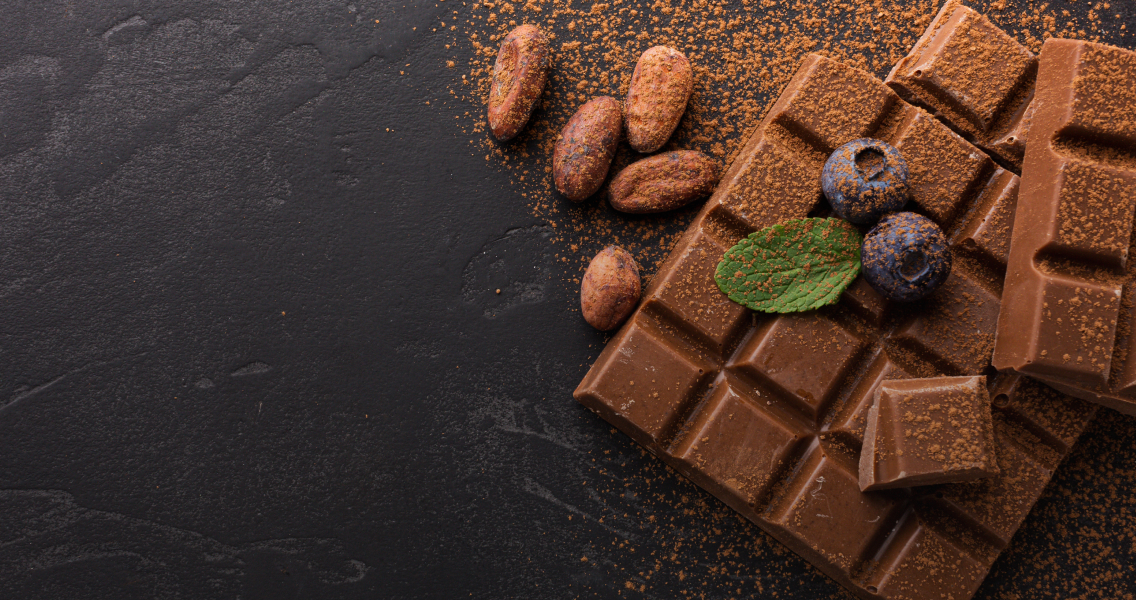
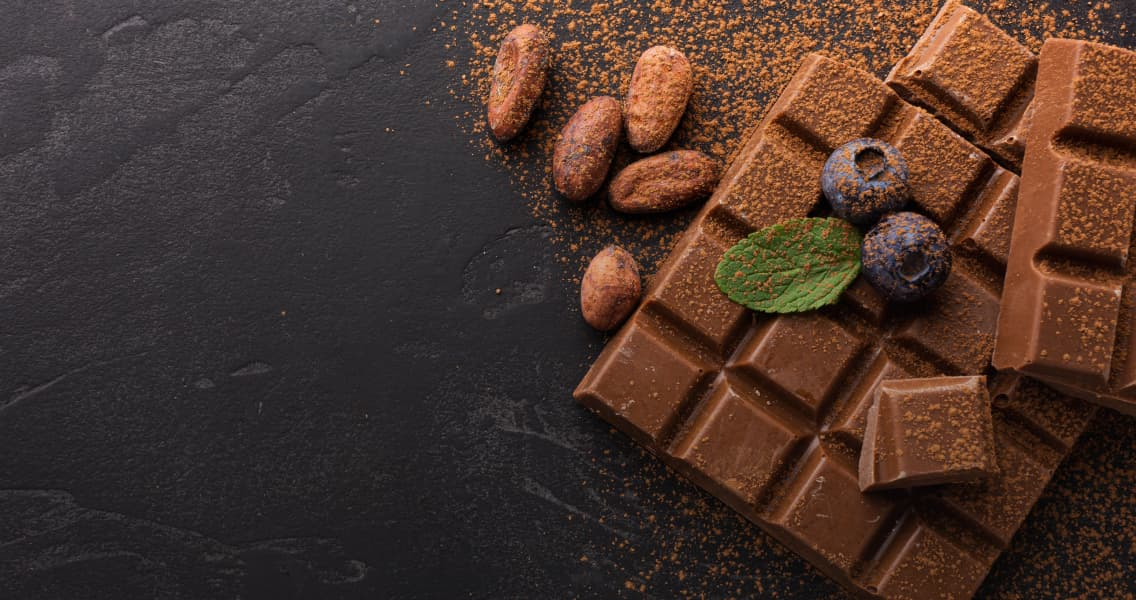
optimized bg img, reduced button padding

diff --git a/src/css/hero.css b/src/css/hero.css
@@ -1,6 +1,12 @@
-
 .hero {
-    background-image: linear-gradient(180deg, rgba(17, 17, 17, 0) 0%, rgba(17, 17, 17, 0.4) 100%), url(/img/hero/hero-bg-chocolate-mobile@1x.jpg);
+    padding-bottom: 71px;
+}
+
+.hero-content {
+    background-image: linear-gradient(180deg,
+            rgba(17, 17, 17, 0) 0%,
+            rgba(17, 17, 17, 0.4) 100%),
+        url(/img/hero/hero-bg-chocolate-mobile@1x.jpg);
     background-size: auto;
     height: 620px;
     background-repeat: no-repeat;
@@ -8,63 +14,50 @@
     background-size: cover;
     border: 0px solid #000000;
     border-radius: 30px;
-    /*margin: 14px 0 72px 0;*/
-    margin-bottom: 71px;
-    padding-top: 350px;
-    padding-left: 15px;
+    padding: 395px 0 21px 20px;
 }
 
 @media (min-device-pixel-ratio: 2),
 (min-resolution: 192dpi),
 (min-resolution: 2dppx) {
-    .hero {
-        background-image: linear-gradient(180deg, rgba(17, 17, 17, 0) 0%, rgba(17, 17, 17, 0.4) 100%), url(./img/hero/hero-bg-chocolate-mobile@2x.jpg);
+    .hero-content {
+        background-image: linear-gradient(180deg,
+                rgba(17, 17, 17, 0) 0%,
+                rgba(17, 17, 17, 0.4) 100%),
+            url(./img/hero/hero-bg-chocolate-mobile@2x.jpg);
     }
 }
 
 .hero-text {
-    font-family: 'Montserrat';
-    font-style: normal;
     font-weight: 500;
     font-size: 20px;
     line-height: 1.2;
     letter-spacing: -0.03em;
-    /*color: #ffffff;*/
     color: var(--white-text);
-    padding-bottom: 32px;
-    padding-left: 0;
-    width: 299px;
-    margin: 0;
-}
-
-.hero-btn-box {
-    padding-left: 0;
+    width: 290px;
+    margin-bottom: 32px;
 }
 
 .hero-btn {
     display: flex;
+    align-items: center;
     gap: 14px;
+    margin-bottom: 32px;
 }
 
 .btn-hero {
-    display: flex;
     font-weight: 600;
     font-size: 14px;
     line-height: 17px;
-    /*color: #FFFFFF;*/
     color: var(--white-text);
-    justify-content: center;
-    align-items: center;
-    height: 41px;
+    padding: 12px 28px;
     border-radius: 100px;
+    cursor: pointer;
 }
 
 .btn-bn-hero {
-    /*background: #FD9222;*/
     background: var(--accent-color);
     border: none;
-    width: 100px;
-    /*transition-property: background;*/
     transition-duration: 250ms;
     transition-timing-function: cubic-bezier(0.4, 0, 0.2, 1);
     cursor: pointer;
@@ -77,16 +70,12 @@
 
 .btn-hm-hero {
     background-color: transparent;
-    /*border: 1px solid #FFFFFF;*/
     border: 1px solid var(--white-text);
-    width: 135px;
     transition-duration: 250ms;
     transition-timing-function: cubic-bezier(0.4, 0, 0.2, 1);
 }
 
 .btn-hm-hero:is(:hover, :focus) {
-    /*border: 1px solid #FD9222;*/
-    /*color: #FD9222;*/
     border: 1px solid var(--accent-color);
     color: var(--accent-color);
 }
@@ -94,23 +83,17 @@
 .hero-scroll {
     display: flex;
     gap: 12px;
-    padding-left: 0px;
-    padding-top: 32px;
     align-items: center;
-    /*fill: #FD9222;*/
     fill: var(--accent-color);
 }
 
 .hero-scroll:hover .hero-scroll-text,
 .hero-scroll:focus .hero-scroll-text {
-    /*color: #FD9222;*/
     color: var(--accent-color);
 }
 
 .hero-scroll:hover .btn-hero-check,
 .hero-scroll:focus .btn-hero-check {
-    /*background-color: #FD9222;*/
-    /*fill: #ffffff;*/
     background-color: var(--accent-color);
     fill: var(--white-text);
 }
@@ -133,7 +116,6 @@
     height: 28px;
     border-radius: 50%;
     border: none;
-    /*background-color: #ffffff;*/
     background-color: var(--white-text);
     padding-top: 6px;
     transition-duration: 250ms;
@@ -141,58 +123,36 @@
     text-align: center;
 }
 
-/*html {
-    scroll-behavior: smooth;
-}*/
-
-@media screen and (min-width: 376px) {
-    .hero-text {
-        padding-left: 20px;
-        width: 290px;
-    }
-
-    .hero {
-        padding-top: 395px;
-        padding-left: 0;
-    }
-
-    .hero-btn-box {
-        padding-left: 20px;
-    }
-
-    .btn-bn-hero {
-        width: 120px;
-    }
-
-    .btn-hm-hero {
-        width: 159px;
-    }
-}
-
 @media screen and (min-device-pixel-ratio: 2) and (max-width: 767px),
 screen and (min-resolution: 192dpi) and (max-width: 767px),
 screen and (min-resolution: 2dppx) and (max-width: 767px) {
-    .hero {
-        background-image: linear-gradient(180deg, rgba(17, 17, 17, 0) 0%, rgba(17, 17, 17, 0.4) 100%), url(/img/hero/hero-bg-chocolate-mobile@2x.jpg);
+    .hero-content {
+        background-image: linear-gradient(180deg,
+                rgba(17, 17, 17, 0) 0%,
+                rgba(17, 17, 17, 0.4) 100%),
+            url(/img/hero/hero-bg-chocolate-mobile@2x.jpg);
+    }
+}
 
+@media screen and (max-width: 374px) {
+    .hero-text {
+        font-size: 18px;
+        width: 256px;
+    }
+
+    .btn-hero {
+        padding: 12px 18px;
     }
 }
 
 @media screen and (min-width: 768px) {
-    .hero-container {
-        /*padding: 0;*/
-        /*padding-top: 24px;*/
-    }
-
-    .hero {
-        background-image: linear-gradient(180deg, rgba(17, 17, 17, 0) 0%, rgba(17, 17, 17, 0.4) 100%), url(/img/hero/hero-bg-chocolate-tablet@1x.jpg);
+    .hero-content {
+        background-image: linear-gradient(180deg,
+                rgba(17, 17, 17, 0) 0%,
+                rgba(17, 17, 17, 0.4) 100%),
+            url(/img/hero/hero-bg-chocolate-tablet@1x.jpg);
         height: 890px;
-        /*margin-top: 24px;*/
-        
-        padding-top: 671px;
-        margin-bottom: 50px;
-        
-        padding-left: 20px;
+        padding: 671px 40px 40px;
     }
 
     .hero-text {
@@ -204,7 +164,14 @@ screen and (min-resolution: 2dppx) and (max-width: 767px) {
     .hero-btn-box {
         display: flex;
         justify-content: space-between;
-        padding-right: 20px;
+    }
+
+    .hero-btn {
+        margin-bottom: 0;
+    }
+
+    .hero-scroll {
+        align-self: flex-end;
     }
 
     .hero-scroll-text {
@@ -212,36 +179,27 @@ screen and (min-resolution: 2dppx) and (max-width: 767px) {
         font-size: 14px;
         line-height: 18px;
     }
-
-    .hero-scroll {
-        padding-top: 0;
-    }
 }
 
 @media screen and (min-device-pixel-ratio: 2) and (min-width: 768px),
 screen and (min-resolution: 192dpi) and (min-width: 768px),
 screen and (min-resolution: 2dppx) and (min-width: 768px) {
-    .hero {
-        background-image: linear-gradient(180deg, rgba(17, 17, 17, 0) 0%, rgba(17, 17, 17, 0.4) 100%), url(/img/hero/hero-bg-chocolate-tablet@2x.jpg);
+    .hero-content {
+        background-image: linear-gradient(180deg,
+                rgba(17, 17, 17, 0) 0%,
+                rgba(17, 17, 17, 0.4) 100%),
+            url(/img/hero/hero-bg-chocolate-tablet@2x.jpg);
     }
 }
 
 @media screen and (min-width: 1200px) {
-    .hero-container {
-        /*padding-top: 0;*/
-        /*padding-top: 32px;*/
-    }
-
-    .hero {
-        background-image: linear-gradient(180deg, rgba(17, 17, 17, 0) 0%, rgba(17, 17, 17, 0.4) 100%), url(/img/hero/hero-bg-chocolate-desktop@1x.jpg);
+    .hero-content {
+        background-image: linear-gradient(180deg,
+                rgba(17, 17, 17, 0) 0%,
+                rgba(17, 17, 17, 0.4) 100%),
+            url(/img/hero/hero-bg-chocolate-desktop@1x.jpg);
         height: 600px;
-        /*margin-top: 32px;*/
         padding-top: 381px;
-        margin-bottom: 72px;
-        /*width: 1200px;*/
-        width: 1136px;
-        margin-left: auto;
-        margin-right: auto;
     }
 
     .hero-text {
@@ -254,7 +212,10 @@ screen and (min-resolution: 2dppx) and (min-width: 768px) {
 @media screen and (min-device-pixel-ratio: 2) and (min-width: 1200px),
 screen and (min-resolution: 192dpi) and (min-width: 1200px),
 screen and (min-resolution: 2dppx) and (min-width: 1200px) {
-    .hero {
-        background-image: linear-gradient(180deg, rgba(17, 17, 17, 0) 0%, rgba(17, 17, 17, 0.4) 100%), url(/img/hero/hero-bg-chocolate-desktop@2x.jpg);
+    .hero-content {
+        background-image: linear-gradient(180deg,
+                rgba(17, 17, 17, 0) 0%,
+                rgba(17, 17, 17, 0.4) 100%),
+            url(/img/hero/hero-bg-chocolate-desktop@2x.jpg);
     }
 }

diff --git a/src/partials/hero.html b/src/partials/hero.html
@@ -1,7 +1,6 @@
-<section id="home">
-
+<section class="hero" id="home">
     <div class="hero-container container">
-        <div class="hero">
+        <div class="hero-content">
             <h1 class="visually-hidden">CHOCOLATE FOR GOURMETS</h1>
             <p class="hero-text">
                 Treat yourself or a loved one to our finest ingredients for a moment of
@@ -10,22 +9,23 @@
             <div class="hero-btn-box">
                 <ul class="hero-btn">
                     <li class="hero-item">
-                        <a data-modal="1" class="js-open-modal btn-hero btn-bn-hero">Buy now</a>
+                        <button type="button" data-modal="1" class="js-open-modal btn-hero btn-bn-hero">
+                            Buy now
+                        </button>
                     </li>
                     <li class="hero-item">
                         <a href="#howmade" class="btn-hero btn-hm-hero">How it&#39;s made</a>
                     </li>
                 </ul>
-                <div>
-                    <a href="#footer" class="hero-scroll">
-                        <p class="hero-scroll-text">scroll down</p>
-                        <div class="btn-hero-check">
-                            <svg width="16" height="16" class="hero-check">
-                                <use href="./img/symbol-defs.svg#icon-angle"></use>
-                            </svg>
-                        </div>
-                    </a>
-                </div>
+
+                <a href="#footer" class="hero-scroll">
+                    <p class="hero-scroll-text">scroll down</p>
+                    <div class="btn-hero-check">
+                        <svg width="16" height="16" class="hero-check">
+                            <use href="./img/symbol-defs.svg#icon-angle"></use>
+                        </svg>
+                    </div>
+                </a>
             </div>
         </div>
     </div>
